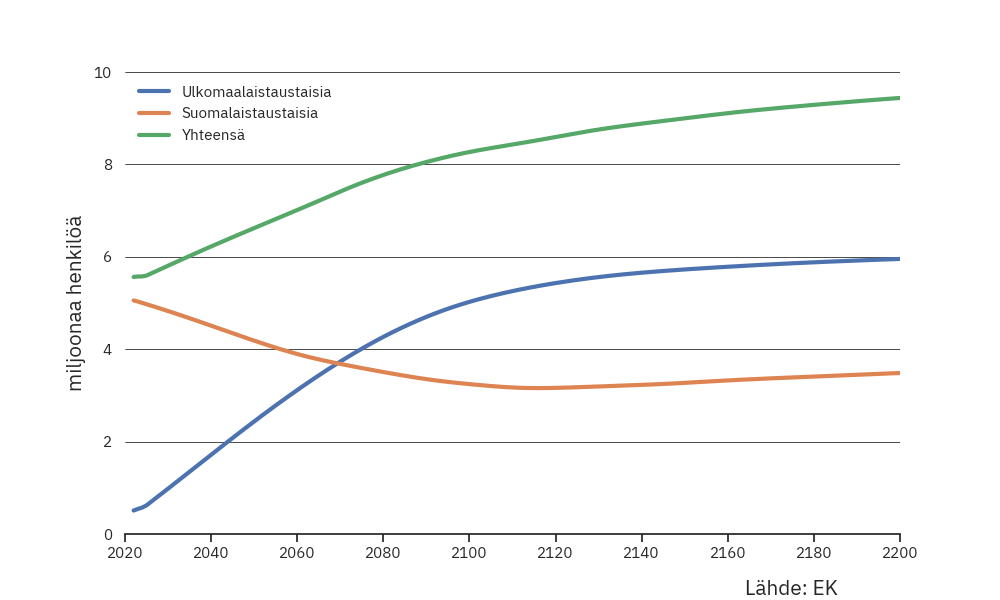
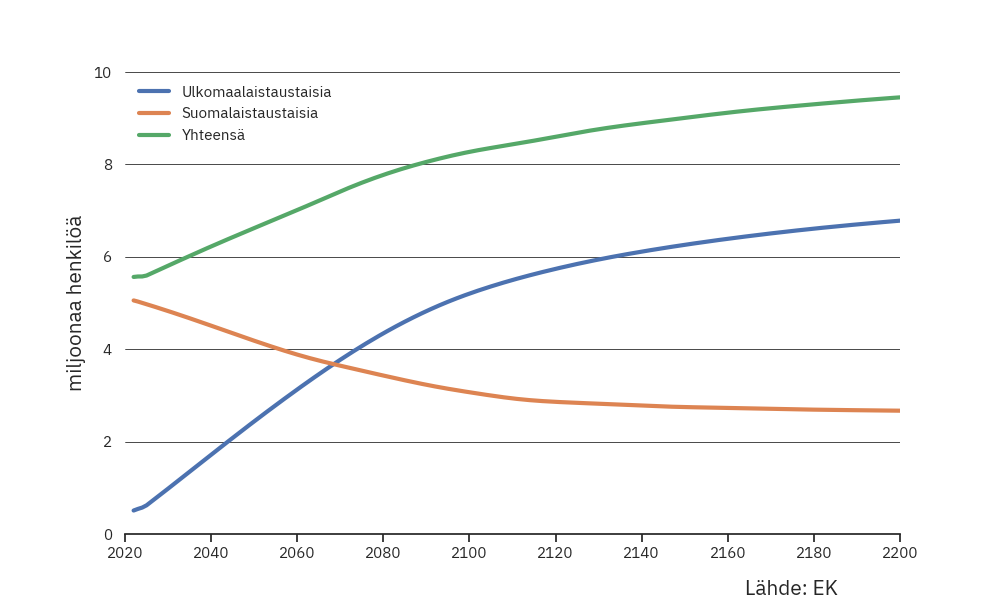
2

diff --git a/_posts/2024-4-3-väestärakenne.md b/_posts/2024-4-3-väestärakenne.md
@@ -41,7 +41,7 @@ ensin Tilastokeskuksen määritelmät:
 >
 > *Suomalaistaustaisia* ovat kaikki ne _"henkilöt, joilla vähintään toinen vanhemmista on syntynyt Suomessa."_ 
 
-On oleellista määritellä täsmällisesti, mitä tarkastellaan. 
+On oleellista määritellä täsmällisesti, mitä tarkastellaan. Näillä määritelmillä ihmiset jaetaan syntyperän mukaan suomalaistaustaisiin ja ulkomaalaistaustaisiin.
 
 Nykyiset suomalaistaustaiset ja heidän jälkeläistensä määrä
 ---
@@ -63,13 +63,13 @@ ulkomaalaistaustaisten kanssa saamat lapset, jotka myös lasketaan suomalaistaus
 
 Tässä laskelman kannalta oleellinen luku on se, kuinka moni ulkomaistaustainen nainen saa lapsen suomalaistaustaisen miehen kanssa. 
 Blogin mukaan noin puolet niistä perheistä, joissa nainen on
-ulkomaalaistaustainen, on mies suomalaistaustainen vuonna 2012. Tämä ei vielä suoraan tarkoita, että sama luku pätisi ulkomaalaistaustaisiin äiteihin. Oletetaan varovaisesti, että
-kolmannes ulkomaalaistaustaisista naisista saa lapsen suomalaistaustaisen miehen kanssa tällä hetkellä. 
+ulkomaalaistaustainen, on mies suomalaistaustainen vuonna 2012. Tämä ei vielä suoraan tarkoita, että sama luku pätisi ulkomaalaistaustaisiin äiteihin. 
 
 ![Väestörakenne](/images/migr/population_vrt.png)<br>
-_Kuvio 4. Väestön määrä jaettuna suomalais- ja ulkomaalaistaustaisiin. Suomalaistaustaisia on kaksi versiota: yllä kuvattu HS:ssä tarkasteltu versio ja Tilastokeskuksen määritelmän mukainen versio, jossa parisuhteet ulkomaalaisten kanssa on huomioitu._
+_Kuvio 4. Väestön määrä jaettuna suomalais- ja ulkomaalaistaustaisiin. Suomalaistaustaisia on kaksi versiota: yllä kuvattu HS:ssä tarkasteltu versio 
+ja ml parit versio, jossa parisuhteet ulkomaalaisten kanssa on huomioitu._
 
-Oletetaan sitten, että suomalais- ja ulkomaalaistaustaiset solmivat keskenään parisuhteita ja saavat lapsia. Alussa 30 prosentilla ulkomaalaistaustaisisten äitien lapsilla on suomalaistaustainen isä. Jatkosta oletetaan, että parinvalinta muuttuu "värisokeaksi" 50 vuoden kulutessa. Tällöin puoliso valitaan väestöryhmien lukumäärien suhteessa.
+Todellisuudessa myös suomalais- ja ulkomaalaistaustaiset solmivat keskenään parisuhteita ja saavat lapsia. Laskelmassa alussa 30 prosentilla ulkomaalaistaustaisisten äitien lapsilla on suomalaistaustainen isä. Tulevaisuudesta oletetaan, että parinvalinta muuttuu "värisokeaksi" 50 vuoden kulutessa. Tällöin puoliso valitaan väestöryhmien lukumäärien suhteessa.
 
 Kun huomioidaan suomalais- ja ulkomaalaistaustaisten parisuhteet, näyttää suomalaistaustaisten määrä huomattavasti suuremmalta kuin HS:n jutussakin esitetty 
 nykyisten suomalaistaustaisten jälkeläisineen määrä. Tämä myös tarkoittaa, että väestöt seikoittuvat, eivät niinkään korvaudu. 
@@ -166,11 +166,10 @@ Syntyvyys
 
 Syntyvyyteen on vaikea vaikuttaa. Taloudellisten keinojen vaikutus lasten hankintaan on osoittautunut [heikoksi tai ainakaan niitä ei tunneta](https://journal.fi/fypr/article/view/85090).
 Kun useissa eri maissa syntyvyys on romahtanut samaan aikaan, on vaikea osoittaa maakohtaista syytä syntyvyyden pienenemiselle.
-[Anna Rotkirch](https://www.hs.fi/talous/art-2000010262915.html) on argumentoinut, että keskeisenä tekijänä olisi älypuhelimet ja sosiaalinen media, mikä saattaa pitää paikkansa. Politiikkatoimilla (kuten 
-esimerkiksi hedelmöityshoitojen maksuttomuus) lienee mahdollista jonkin verran kasvattaa syntyvyyttä mahdollistamalla ihmisille heidän toivomansa lapsiluku, joka tällä hetkellä [Väestöliiton kyselyn](https://www.vaestoliitto.fi/ajankohtaista/perhebarometri-valtaosa-suomalaisista-haluaa-ainakin-kaksi-lasta/) mukaan ylittää toteuman. Vaikutukset lienevät kuitenkin korkeintaan maltillisia.
+[Anna Rotkirch](https://www.hs.fi/talous/art-2000010262915.html) on argumentoinut, että keskeisenä tekijänä olisi älypuhelimet ja sosiaalinen media, mikä saattaa pitää paikkansa. Politiikkatoimilla (kuten esimerkiksi hedelmöityshoitojen maksuttomuus) lienee mahdollista jonkin verran kasvattaa syntyvyyttä mahdollistamalla ihmisille heidän toivomansa lapsiluku, joka tällä hetkellä [Väestöliiton kyselyn](https://www.vaestoliitto.fi/ajankohtaista/perhebarometri-valtaosa-suomalaisista-haluaa-ainakin-kaksi-lasta/) mukaan ylittää toteuman. Vaikutukset lienevät kuitenkin maltillisia.
 
 Toinen keino, joka saattaisi vaikuttaa syntyvyyteen, on synnytyskokemuksen parantaminen. Kuulostaa hieman konsulttikieleltä, mutta aiheesta tehdyn [tutkimuksen](https://www.aka.fi/tietysti/tiesitko/vieko-huono-synnytyskokemus-tulevaisuuden-lapsihaaveet/) mukaan
-kielteinen kokemus synnytyksessä on vähentänyt halukkutta hankkia uutta lasta. Tämänkin keinon vaikutukset kokonaissyntyvyyteen lienevät vähäiset.
+kielteinen kokemus synnytyksessä on vähentänyt halukkuutta hankkia uutta lasta. Tämänkin keinon vaikutukset kokonaissyntyvyyteen lienevät vähäiset.
 
 
 Maahanmuuttajien integrointi
@@ -180,7 +179,7 @@ Maahanmuuttajien osuuden kasvu Suomen väestöstä korostaa maahanmuuttajien int
 säilyttäminen onnistu ilman että Suomessa tehdään työtä.
 Fiksu idea maahanmuuttajien Suomeen integronnista on esimerkiksi juhlava kansalaisuusseremonia, joka kertoo kansalaisuuden saajille, että on oikeasti hienoa saada nimenomaan Suomen kansalaisuus. Tällaista ei tällä hetkellä ole.
 
-Toinen integroinnin onnistumisessa korostuva seikka on kielenopetuksen tärkeys. Suomi tai ruotsi ei kumpikaan ole kaikkein helpoimpia kieliä, koska ne usein
+Toinen integroinnin onnistumisessa korostuva seikka on kielenopetuksen tärkeys. Suomi tai ruotsi ei kumpikaan ole niitä kaikkein helpoimpia kieliä, koska ne usein
 poikkeavat maahanmuuttajien omasta kielestä. Vaikka Suomessa pärjää englannilla, on yhteiskuntaan integroitumisen vuoksi tärkeää oppia paikallinen kieli. Se myös sitoo
 maahanmuuttajat yhteisöön. Tätä olisi syytä edistää sekä kepillä että porkkanalla. Voisiko kielenopiskelu (suomi tai ruotsi) olla pakollista kaikille Suomessa opiskeleville? Ja maksutonta
 automaattisesti kaikille Suomessa työskenteleville?
